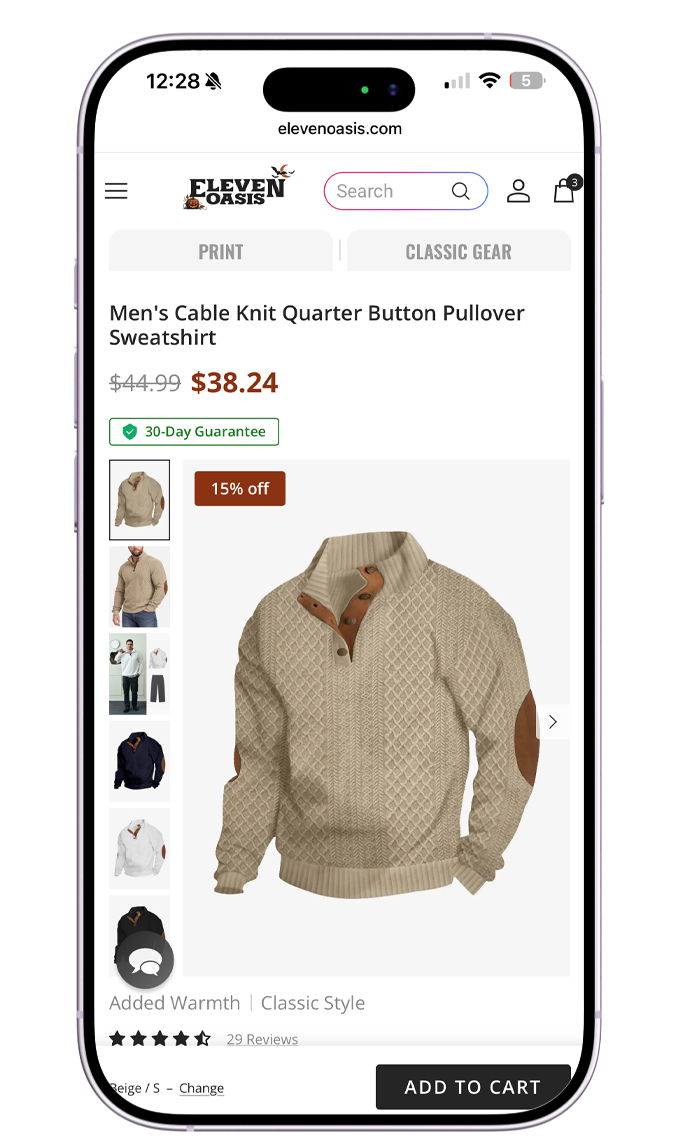
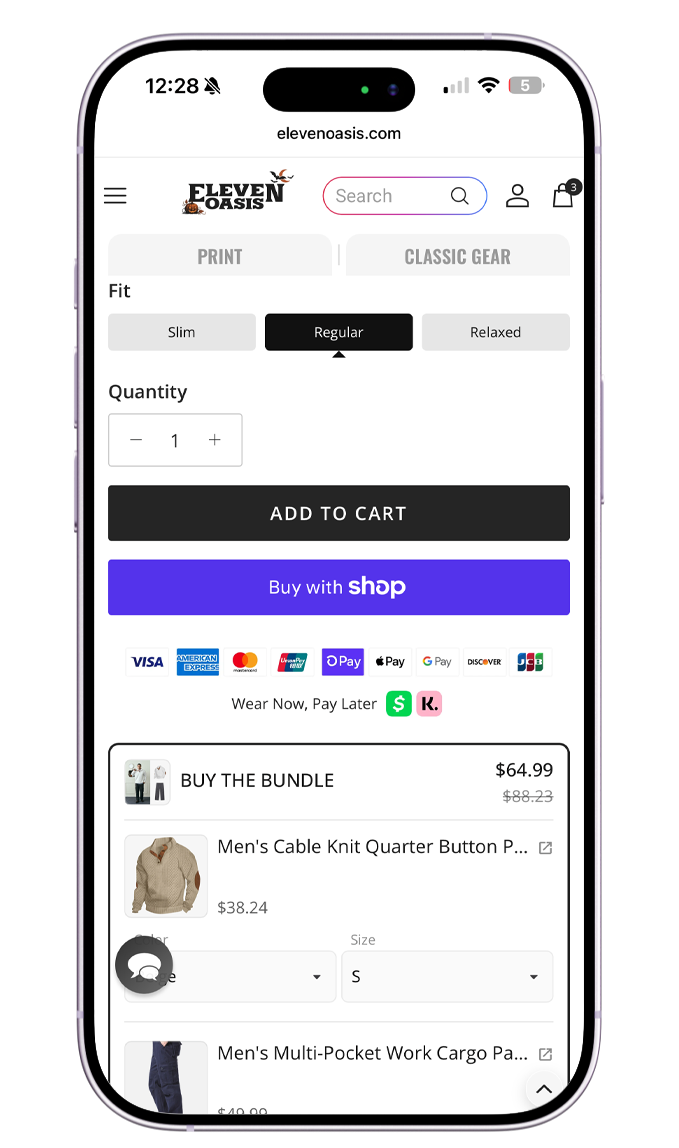
Correct mobile screen 09 and add manual PDP UX carousel

diff --git a/src/components/eleven-oasis/PdpUxDecisionsCarousel.tsx b/src/components/eleven-oasis/PdpUxDecisionsCarousel.tsx
@@ -1,0 +1,101 @@
+"use client";
+
+import Image from "next/image";
+import { useEffect, useRef, useState } from "react";
+import { ImageGallery } from "@/components/ImageGallery";
+import { pdpUxSlides } from "@/data/eleven-oasis-strategy";
+import "./PdpUxDecisionsCarousel.css";
+
+const count = pdpUxSlides.length;
+const wrap = (index: number) => (index + count) % count;
+
+/** A new active session resets to slide 01 without changing other strategy state. */
+export function PdpUxDecisionsCarousel({ active }: { active: boolean }) {
+  return <CarouselSession key={active ? "active" : "inactive"} active={active} />;
+}
+
+function CarouselSession({ active }: { active: boolean }) {
+  const [selected, setSelected] = useState(0);
+  const [displayed, setDisplayed] = useState(0);
+  const [failed, setFailed] = useState<number | null>(null);
+  const [visited, setVisited] = useState([0]);
+  const touch = useRef<{ x: number; y: number; moved: boolean } | null>(null);
+  const suppressClick = useRef(false);
+  const select = (index: number) => {
+    const next = wrap(index);
+    setFailed(null);
+    setSelected(next);
+    setVisited(previous => previous.includes(next) ? previous : [...previous, next]);
+  };
+  const slide = pdpUxSlides[selected];
+  const visibleSlide = pdpUxSlides[displayed];
+
+  useEffect(() => {
+    let cancelled = false;
+    const image = new window.Image();
+    image.src = pdpUxSlides[selected].src;
+    void image.decode().then(() => {
+      if (!cancelled) setDisplayed(selected);
+    }).catch(() => {
+      if (!cancelled) setFailed(selected);
+    });
+    return () => { cancelled = true; };
+  }, [selected]);
+
+  return <ImageGallery images={pdpUxSlides} presentation="pdp" renderPreview={open => (
+    <div className="eleven-pdp-carousel" role="region" aria-roledescription="carousel" aria-label="PDP UX decisions"
+      data-slide={selected + 1} data-rendered-slide={displayed + 1} onKeyDown={event => {
+        if (event.key === "ArrowLeft" || event.key === "ArrowRight") {
+          event.preventDefault();
+          select(selected + (event.key === "ArrowRight" ? 1 : -1));
+        }
+      }}>
+      <div className="eleven-pdp-carousel-viewport">
+        <button type="button" className="eleven-pdp-carousel-image" aria-haspopup="dialog"
+          aria-busy={selected !== displayed && failed !== selected}
+          aria-label={`Enlarge slide ${displayed + 1} of ${count}: ${visibleSlide.alt}`} onClick={event => {
+            if (suppressClick.current) { suppressClick.current = false; return; }
+            open(displayed, event.currentTarget);
+          }}
+          onPointerDown={event => {
+            suppressClick.current = false;
+            if (event.pointerType === "touch") touch.current = { x: event.clientX, y: event.clientY, moved: false };
+          }}
+          onPointerMove={event => {
+            const start = touch.current;
+            if (!start || event.pointerType !== "touch") return;
+            if (Math.abs(event.clientX - start.x) > 10 || Math.abs(event.clientY - start.y) > 10) start.moved = true;
+          }}
+          onPointerUp={event => {
+            const start = touch.current;
+            touch.current = null;
+            if (!start || event.pointerType !== "touch") return;
+            const dx = event.clientX - start.x;
+            const dy = event.clientY - start.y;
+            suppressClick.current = start.moved || Math.abs(dx) > 10 || Math.abs(dy) > 10;
+            if (Math.abs(dx) > 45 && Math.abs(dx) > Math.abs(dy) * 1.3) select(selected + (dx < 0 ? 1 : -1));
+          }}
+          onPointerCancel={() => { touch.current = null; suppressClick.current = true; }}>
+          {pdpUxSlides.map((image, index) => {
+            // First/current/adjacent images load eagerly; visited slides stay decoded.
+            const adjacent = index === wrap(selected - 1) || index === wrap(selected + 1);
+            if (index !== selected && !visited.includes(index) && !(active && adjacent)) return null;
+            return <Image key={image.src} src={image.src} width={image.width} height={image.height} alt={image.alt}
+              sizes="(max-width:950px) 92vw, 65vw" loading="eager" fetchPriority={index === selected ? "high" : "low"}
+              className="eleven-pdp-carousel-slide" data-current={index === displayed} aria-hidden={index !== displayed} />;
+          })}
+        </button>
+        <button type="button" className="eleven-pdp-carousel-arrow" data-direction="previous" aria-label="Previous PDP slide"
+          onClick={() => select(selected - 1)}>←</button>
+        <button type="button" className="eleven-pdp-carousel-arrow" data-direction="next" aria-label="Next PDP slide"
+          onClick={() => select(selected + 1)}>→</button>
+      </div>
+      <div className="eleven-pdp-carousel-dots" role="group" aria-label="Choose a PDP UX slide">
+        {pdpUxSlides.map((image, index) => <button type="button" key={image.src}
+          aria-label={`Go to slide ${index + 1} of ${count}: ${image.alt.split(" — ")[0]}`}
+          aria-current={selected === index ? "true" : undefined} onClick={() => select(index)}><span /></button>)}
+      </div>
+      <span className="eleven-pdp-carousel-status" aria-live="polite" aria-atomic="true">{failed === selected ? "This slide could not load. The previous artwork remains visible." : `Slide ${selected + 1} of ${count}: ${slide.alt.split(" — ")[0]}`}</span>
+    </div>
+  )} />;
+}

diff --git a/src/components/eleven-oasis/PdpUxDecisionsCarousel.css b/src/components/eleven-oasis/PdpUxDecisionsCarousel.css
@@ -1,0 +1,35 @@
+/* Scoped to Strategy 02; the shared strategy viewport and column widths stay intact. */
+.eleven-pdp-carousel { height: 100%; min-width: 0; display: grid; grid-template-rows: minmax(0, 1fr) 32px; gap: 8px; }
+.eleven-pdp-carousel-viewport { position: relative; min-width: 0; min-height: 0; }
+.eleven-pdp-carousel-image { position: relative; display: block; width: 100%; height: 100%; padding: 0; border: 0; background: #fff; cursor: zoom-in; touch-action: pan-y pinch-zoom; }
+.eleven-pdp-carousel-slide { position: absolute; inset: 0; width: 100%; height: 100%; max-width: none; object-fit: contain; opacity: 0; transition: opacity 400ms ease-in-out; pointer-events: none; }
+/* Latest selection wins immediately; CSS interrupts fades instead of queuing timers. */
+.eleven-pdp-carousel-slide[data-current="true"] { opacity: 1; z-index: 1; }
+.eleven-pdp-carousel-arrow { position: absolute; z-index: 2; top: 50%; translate: 0 -50%; display: grid; place-items: center; width: 36px; height: 44px; padding: 0; border: 1px solid #ffffff55; border-radius: 3px; background: #ffffffb8; color: #252525; font: 400 18px/1 Arial, sans-serif; cursor: pointer; transition: opacity 180ms ease, background-color 180ms ease; }
+.eleven-pdp-carousel-arrow[data-direction="previous"] { left: 10px; }
+.eleven-pdp-carousel-arrow[data-direction="next"] { right: 10px; }
+.eleven-pdp-carousel-arrow:hover { background: #fffffff0; }
+.eleven-pdp-carousel-dots { display: flex; justify-content: center; align-items: center; gap: 0; }
+.eleven-pdp-carousel-dots button { display: grid; place-items: center; width: 32px; height: 32px; padding: 0; border: 0; background: transparent; cursor: pointer; }
+.eleven-pdp-carousel-dots span { width: 6px; height: 6px; border-radius: 50%; background: #d1d1d1; transition: background-color 180ms ease; }
+.eleven-pdp-carousel-dots button:hover span { background: #888; }
+.eleven-pdp-carousel-dots button[aria-current="true"] span { width: 8px; height: 8px; background: #252525; }
+.eleven-pdp-carousel :is(button):focus-visible { outline: 2px solid #333; outline-offset: 2px; }
+.eleven-pdp-carousel-status { position: absolute; width: 1px; height: 1px; overflow: hidden; clip-path: inset(50%); white-space: nowrap; }
+@media (hover: hover) and (pointer: fine) {
+  .eleven-pdp-carousel-arrow { opacity: 0; pointer-events: none; }
+  .eleven-pdp-carousel-viewport:is(:hover, :focus-within) .eleven-pdp-carousel-arrow { opacity: 1; pointer-events: auto; }
+}
+/* Reuse ImageGallery's existing native PDP dialog, including focus restoration and scroll lock. */
+.eleven-pdp-lightbox { width: 92vw; max-width: 92vw; height: 90dvh; max-height: 90dvh; padding: 16px; background: #fff; box-shadow: 0 12px 60px #0001; }
+.eleven-pdp-lightbox::backdrop { background: rgb(245 245 245 / .92); backdrop-filter: blur(3px); }
+.eleven-pdp-lightbox .lightbox-toolbar { padding: 0 0 8px; }
+.eleven-pdp-lightbox .lightbox-toolbar > button { min-width: 44px; min-height: 44px; }
+.eleven-pdp-lightbox .lightbox-toolbar > button:focus-visible { outline: 2px solid #333; outline-offset: 2px; }
+.eleven-pdp-lightbox .lightbox-scroll { display: flex; background: #fff; overflow: hidden; }
+.eleven-pdp-lightbox .lightbox-scroll img { width: 100%; height: 100%; max-width: 100%; max-height: 100%; object-fit: contain; }
+.eleven-pdp-lightbox .lightbox-footer { display: none; }
+@media (max-width: 700px) { .eleven-pdp-lightbox { padding: 10px; } }
+@media (prefers-reduced-motion: reduce) {
+  .eleven-pdp-carousel-slide, .eleven-pdp-carousel-arrow, .eleven-pdp-carousel-dots span { transition: none; }
+}

diff --git a/src/data/eleven-oasis-strategy.ts b/src/data/eleven-oasis-strategy.ts
@@ -1,5 +1,52 @@
 import type { ProjectImage } from "./projects";
 
+/** Verified originals, numeric order; lossless WebP copies retain every artwork pixel. */
+export const pdpUxSlides: ProjectImage[] = [
+  {
+    "src": "/projects/eleven-oasis/strategy/pdp/01-3595ab55daf3.webp",
+    "width": 1600,
+    "height": 958,
+    "alt": "Product Information Hierarchy — Clarity at the Point of Decision; original PDP UX presentation with annotated storefront detail on a dark blurred background"
+  },
+  {
+    "src": "/projects/eleven-oasis/strategy/pdp/02-7cb89a323108.webp",
+    "width": 1600,
+    "height": 958,
+    "alt": "Product Display — More Detail Shots; original PDP UX presentation with annotated storefront detail on a dark blurred background"
+  },
+  {
+    "src": "/projects/eleven-oasis/strategy/pdp/03-8f36f4c5dba9.webp",
+    "width": 1600,
+    "height": 958,
+    "alt": "Intuitive Size Selection — Making Product Choices Effortless; original PDP UX presentation with annotated storefront detail on a dark blurred background"
+  },
+  {
+    "src": "/projects/eleven-oasis/strategy/pdp/04-54c686a2fb33.webp",
+    "width": 1600,
+    "height": 958,
+    "alt": "Contextual Bundle Upselling — Discover More Without Leaving the PDP; original PDP UX presentation with annotated storefront detail on a dark blurred background"
+  },
+  {
+    "src": "/projects/eleven-oasis/strategy/pdp/05-d74b08a46fa7.webp",
+    "width": 1600,
+    "height": 958,
+    "alt": "Product Detail Transparency — Helping Shoppers Understand What They Buy; original PDP UX presentation with annotated storefront detail on a dark blurred background"
+  },
+  {
+    "src": "/projects/eleven-oasis/strategy/pdp/06-c328e481de65.webp",
+    "width": 1600,
+    "height": 958,
+    "alt": "Recently Viewed Products — Reducing Friction in Product Rediscovery; original PDP UX presentation with annotated storefront detail on a dark blurred background"
+  },
+  {
+    "src": "/projects/eleven-oasis/strategy/pdp/07-0122ad0f6b82.webp",
+    "width": 1600,
+    "height": 958,
+    "alt": "Customer Reviews — Building Trust Through Social Proof; original PDP UX presentation with annotated storefront detail on a dark blurred background"
+  }
+];
+
+
 export interface ElevenCampaign {
   id: string;
   name: string;
@@ -46,7 +93,7 @@ export const elevenStrategies: ElevenStrategy[] = [
   {
     number: "02", label: "REDESIGNED PDP BUY BOX", title: "Supporting Confident Purchase Decisions",
     description: "I refined the product purchasing experience by bringing essential product information, variant selection, pricing, and purchase actions into a clearer and more accessible hierarchy.",
-    images: [{ src: "/projects/eleven-oasis/strategy/pdp-ux-decisions.png", width: 1617, height: 973, alt: "Eleven Oasis PDP UX Decisions: a two-by-two breakdown of product information hierarchy, intuitive size selection, contextual bundle upselling and product detail transparency, beside the complete redesigned product page on an iPhone" }],
+    images: pdpUxSlides,
   },
   {
     number: "03", label: "CAMPAIGN LANDING PAGES", title: "One Framework. Two Shopping Intentions.",

diff --git a/src/components/ImageGallery.tsx b/src/components/ImageGallery.tsx
@@ -8,15 +8,18 @@ export function ImageGallery({
   layout = "pair",
   presentation,
   pdpOverlay,
+  renderPreview,
 }: {
   images: ProjectImage[];
   layout?: "full" | "pair" | "grid";
   presentation?: "pdp";
   pdpOverlay?: ReactNode;
+  /** An alternate media presentation can reuse this gallery's existing dialog. */
+  renderPreview?: (open: (index: number, trigger: HTMLButtonElement) => void) => ReactNode;
 }) {
   const [selected, setSelected] = useState<number | null>(null);
   const dialog = useRef<HTMLDialogElement>(null);
-  const trigger = useRef<HTMLButtonElement | null>(null);
+  const [trigger, setTrigger] = useState<HTMLButtonElement | null>(null);
   useEffect(() => {
     if (selected !== null && dialog.current && !dialog.current.open)
       dialog.current.showModal();
@@ -31,9 +34,9 @@ export function ImageGallery({
     return () => {
       document.body.style.overflow = previousOverflow;
       document.body.style.paddingRight = previousPadding;
-      trigger.current?.focus({ preventScroll: true });
+      trigger?.focus({ preventScroll: true });
     };
-  }, [presentation, selected]);
+  }, [presentation, selected, trigger]);
   const active = selected !== null ? images[selected] : null;
   const navigate = (direction: number) =>
     setSelected((current) =>
@@ -43,13 +46,16 @@ export function ImageGallery({
     );
   return (
     <>
-      <div className={`image-gallery gallery-${layout}`}>
+      {renderPreview ? renderPreview((index, button) => {
+        setTrigger(button);
+        setSelected(index);
+      }) : <div className={`image-gallery gallery-${layout}`}>
         {images.map((image, index) => (
           <figure key={image.src}>
             <button
               className={`gallery-image ${image.height / image.width > 3 ? "screenshot-image" : ""}`}
               onClick={(event) => {
-                trigger.current = event.currentTarget;
+                setTrigger(event.currentTarget);
                 setSelected(index);
               }}
               aria-label={`Enlarge: ${image.alt}`}
@@ -73,7 +79,7 @@ export function ImageGallery({
             {image.caption && <figcaption>{image.caption}</figcaption>}
           </figure>
         ))}
-      </div>
+      </div>}
       <dialog
         ref={dialog}
         className={`lightbox${presentation === "pdp" ? " eleven-pdp-lightbox" : ""}`}

diff --git a/src/components/eleven-oasis/ElevenOasisStrategyShowcase.tsx b/src/components/eleven-oasis/ElevenOasisStrategyShowcase.tsx
@@ -5,7 +5,7 @@ import type { ProjectImage } from "@/data/projects";
 import { elevenStrategies, elevenCampaigns } from "@/data/eleven-oasis-strategy";
 import { ImageGallery } from "@/components/ImageGallery";
 import { Strategy01PhoneVideo } from "./Strategy01PhoneVideo";
-import { Strategy02PdpArtwork } from "./Strategy02PdpArtwork";
+import { PdpUxDecisionsCarousel } from "./PdpUxDecisionsCarousel";
 import { Strategy03CampaignShowcase } from "./Strategy03CampaignShowcase";
 import "./ElevenOasisStrategyShowcase.css";
 
@@ -29,7 +29,7 @@ export function ElevenOasisStrategyShowcase({ brandingImages, brandingNotes }: {
           return (
             <div key={strategy.number} className={`eleven-strategy-panel ${index === 1 ? "eleven-strategy-pdp" : ""} ${index === 2 ? "eleven-strategy-campaign-panel" : images.length > 1 ? "eleven-strategy-branding" : ""}`}
               data-selected={selected === index} aria-hidden={selected !== index} inert={selected !== index}>
-              {index === 0 ? <Strategy01PhoneVideo active={selected === 0} artwork={images[0]} /> : index === 1 && visited.includes(index) ? <Strategy02PdpArtwork active={selected === 1} images={images} /> : index === 2 && visited.includes(index) ? <Strategy03CampaignShowcase active={selected === 2} /> : visited.includes(index) && (images.length ? (
+              {index === 0 ? <Strategy01PhoneVideo active={selected === 0} artwork={images[0]} /> : index === 1 && visited.includes(index) ? <PdpUxDecisionsCarousel active={selected === 1} /> : index === 2 && visited.includes(index) ? <Strategy03CampaignShowcase active={selected === 2} /> : visited.includes(index) && (images.length ? (
                 <ImageGallery images={images} layout={images.length > 1 ? "grid" : "full"} />
               ) : (
                 <div className="eleven-strategy-unavailable">

diff --git a/src/data/eleven-oasis-mobile-journey.ts b/src/data/eleven-oasis-mobile-journey.ts
@@ -24,8 +24,8 @@ export interface JourneyPhone {
 }
 const phone = (id: number, label: string, detail: string, stages: JourneyStage[]): JourneyPhone => ({
   id, label, stages, width: 679, height: 1148, thumbnailWidth: 240, thumbnailHeight: 406,
-  src: `/projects/eleven-oasis/mobile/eleven-oasis-mobile-${id}.png`,
-  thumbnail: `/projects/eleven-oasis/mobile/phone-${id}-thumb.webp`,
+  src: `/projects/eleven-oasis/mobile/eleven-oasis-mobile-${id}${id === 9 ? "-a5a538692de4" : ""}.png`,
+  thumbnail: `/projects/eleven-oasis/mobile/phone-${id}-thumb${id === 9 ? "-a5a538692de4" : ""}.webp`,
   alt: `${label} — ${detail}, inside the original iPhone frame`,
 });
 export const journeyPhones: JourneyPhone[] = [

diff --git a/docs/eleven-oasis-pdp-carousel.md b/docs/eleven-oasis-pdp-carousel.md
@@ -1,0 +1,59 @@
+# Strategy 02 carousel and Mobile Shopping Journey correction
+
+Target: `/work/eleven-oasis/`. This replaces Strategy 02's former single-composition
+phone walkthrough; its original artwork, source files and walkthrough assets are retained.
+
+## Assets
+
+- Corrected source: `source-assets/eleven-oasis-mobile-9.png` (679 × 1148).
+- Full-size served URL: `/projects/eleven-oasis/mobile/eleven-oasis-mobile-9-a5a538692de4.png`.
+- Thumbnail: `/projects/eleven-oasis/mobile/phone-9-thumb-a5a538692de4.webp` (240 × 406).
+- The canonical public image 09 and thumbnail are also refreshed. Only image 09's
+  URLs are fingerprinted, so existing cached files cannot override this correction.
+- All ten other mobile originals and thumbnails remain byte-for-byte unchanged.
+- Seven source slides: `source-assets/eleven-oasis-pdp-strategy02-01.png` through
+  `source-assets/eleven-oasis-pdp-strategy02-07.png`, each verified at 1600 × 958.
+- Served slides: `/projects/eleven-oasis/strategy/pdp/01-3595ab55daf3.webp`,
+  `02-7cb89a323108.webp`, `03-8f36f4c5dba9.webp`, `04-54c686a2fb33.webp`,
+  `05-d74b08a46fa7.webp`, `06-c328e481de65.webp`, `07-0122ad0f6b82.webp`.
+  Each WebP is lossless and RGB pixel-identical to its fully opaque source PNG.
+
+## Implementation
+
+`pdpUxSlides` is the typed manifest in `src/data/eleven-oasis-strategy.ts`.
+`PdpUxDecisionsCarousel` occupies the existing Strategy 02 media panel. Shared
+viewport sizing, column proportions, selectors, descriptions and other strategies
+are unchanged. The panel remains inert when inactive.
+
+The carousel is manual only: seven 32px pagination targets, wrapping previous/next
+arrows, keyboard left/right and touch swipe. Dots update immediately; the previous
+decoded artwork remains visible until the requested image is ready. Canceled
+requests cannot replace a newer selection. CSS uses a 400ms opacity crossfade;
+reduced motion switches immediately. No slide text is reconstructed outside the images.
+
+The first/current/adjacent slides load eagerly; visited slides stay mounted. Every
+image uses its verified intrinsic dimensions and `object-fit: contain`. Strategy
+02 resets to slide 01 on re-selection without resetting other strategy components.
+
+An optional `renderPreview` slot reuses `ImageGallery`'s existing native PDP dialog.
+The currently displayed slide opens in that one dialog; arrows and dots are sibling
+controls, so they cannot activate enlargement. The viewer retains Escape, backdrop
+and close-button dismissal, scroll locking, focus containment and focus restoration.
+Closing enlargement preserves the carousel selection.
+
+## Verification
+
+Required checks:
+
+- `npm run lint`
+- `npm run build`
+- `npm run typecheck`
+- `npm run check:content -- --build`
+
+Content checks verify all eleven mobile source/copy hashes and the seven ordered,
+fingerprinted slide assets. Browser QA covers all slides, dots and wrapping arrows;
+rapid selection; selected-image enlargement; keyboard/focus and scroll restoration;
+manual-only behavior; reset on re-selection; delayed image loading; reduced motion;
+mobile swipe/tap; and widths 320, 390, 600, 700, 768, 950, 951, 1024, 1440 and 1920.
+Strategy 03 is additionally checked through two real animation loops, comparing
+both normalized scroll positions at 25%, 50%, 75% and 100%.
